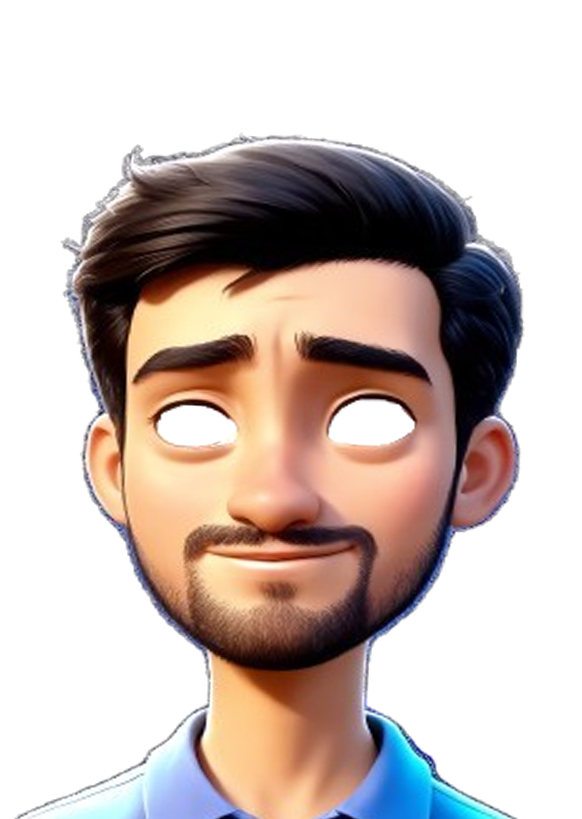
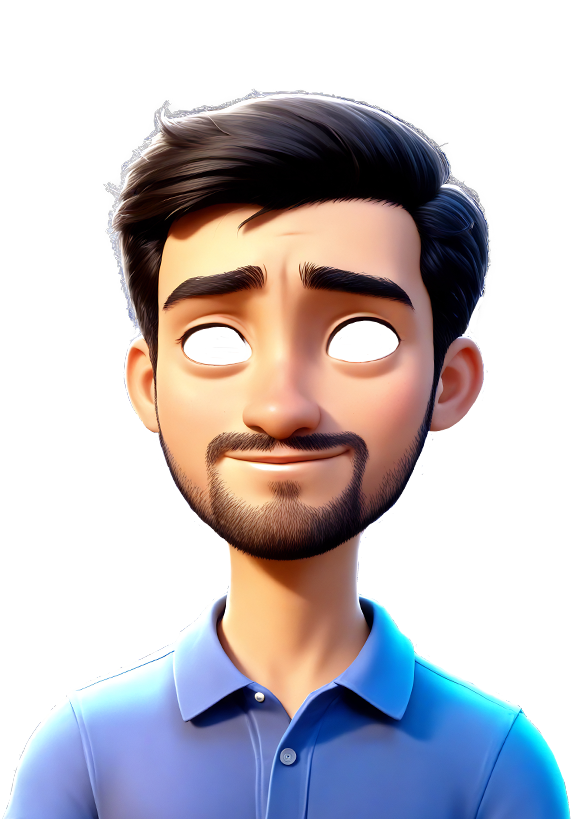
..

diff --git a/style.css b/style.css
@@ -1498,7 +1498,7 @@ footer {
 }
 
 .footer-avatar-container {
-    width: 220px;
+    width: 320px;
     margin-top: 20px;
     position: relative;
     display: flex;
@@ -1514,19 +1514,19 @@ footer {
 .footer-avatar-face {
     position: absolute;
     width: 100%;
-    height: 97%;
+    height: 115%;
     z-index: 1;
     display: flex;
     align-items: center;
     justify-content: center;
-    gap: 18px;
+    gap: 25px;
     padding-left: 5px
 }
 
 .footer-avatar-eye {
-    width: 50px;
-    height: 50px;
-    background-color: #dfd2d2;
+    width: 55px;
+    height: 55px;
+    background-color: #f3e9e9;
     border-radius: 50%;
     display: flex;
     align-items: center;
@@ -1543,12 +1543,12 @@ footer {
 }
 
 .footer-right-eye {
-    box-shadow: 15px 15px 5px rgba(0, 0, 0, .233) inset, 10px 10px 5px rgba(41, 33, 33, .644) inset;
+    box-shadow: 15px 15px 15px rgba(0, 0, 0, .233) inset, 10px 10px 5px rgba(41, 33, 33, .644) inset;
     position: relative
 }
 
 .footer-left-eye {
-    box-shadow: -10px -15px 5px rgba(0, 0, 0, .349) inset;
+    box-shadow: -10px -15px 15px rgba(0, 0, 0, .233) inset;
     position: relative
 }
 
